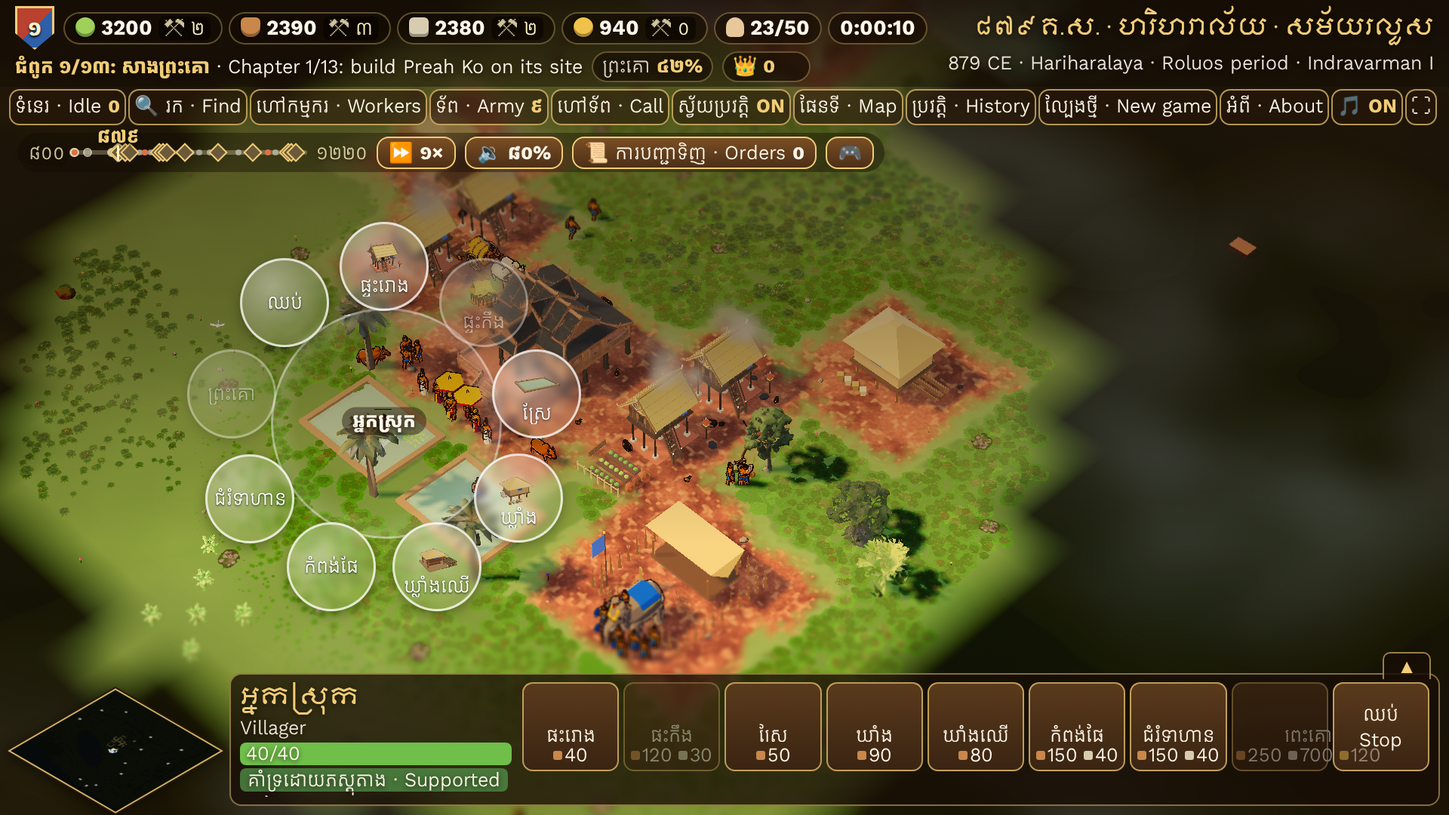
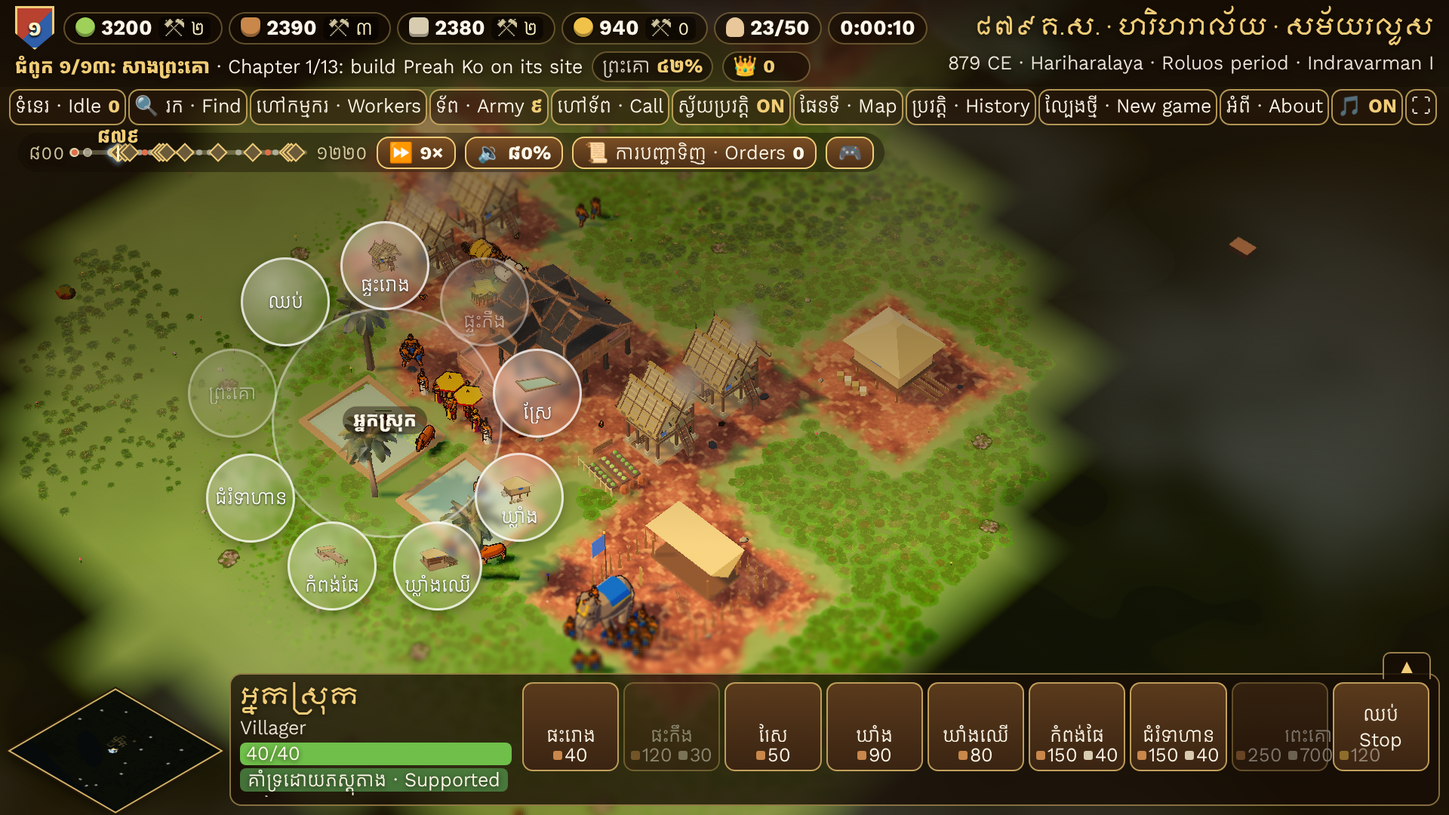
1.8.0: the 889 CE Khmer stilt house after PK's reference picture
Claude-Session: https://claude.ai/code/session_017dmXPdLMp9auDpbSrbmvn9

diff --git a/apps/game/src/kingdom/view/houses.ts b/apps/game/src/kingdom/view/houses.ts
@@ -348,48 +348,318 @@ function spiritHouse(p: THREE.BufferGeometry[], x: number, z: number, s = 1): vo
   p.push(part(place(new THREE.ConeGeometry(0.04 * s, 0.22 * s, 4), [x, 1.95 * s, z]), C.lime));
 }
 
+/** PK 1.8.0 (889 CE brief): the commoner's stilt house materials. */
+const R89 = {
+  bamboo: 0x9e8a62,
+  bambooLight: 0xc2ad80,
+  bambooDark: 0x76623f,
+  /** Weathered thatch: grey-brown, the fresh courses lighter (PK's reference). */
+  thatchOld: 0x8f7d5c,
+  thatchShade: 0x5e5038,
+  hardwood: 0x4a3020,
+  hardwoodLight: 0x6a4630,
+  stone: 0xa49474,
+  stoneDark: 0x80725a,
+  earth: 0x8a6a48,
+  clay: 0x9a5434,
+  basket: 0xb08a4e,
+  straw: 0xd8bc6a,
+  log: 0x5e4028,
+};
+
 /**
- * Pteas Rong (ផ្ទះរោង), the common house: 2 × 2 tiles (4 × 4 m). PK's reference names it
- * the oldest type of the series, going back to Funan (Nokor Phnom). A rectangular body with
- * its long side to the front, raised on three rows of round posts over stone footings (floor
- * at ~2.2 m), under one steep two-sided gable roof of red tile (overall ~5.5 m) with big
- * decorated gable boards and horn finials at both ridge ends; a steep stair on the long side
- * up to the door, small shuttered windows (a team-colour cloth hangs from one), a
- * terracotta ground slab and a spirit house at the north-east corner of the plot.
+ * A carved stone pedestal (ssom) for a stilt: a square plinth, a chamfered block with a
+ * carved band, and a cap; the post stands on top, out of the damp (not buried in the earth).
+ * Returns the height of its top.
+ */
+function pedestal(p: THREE.BufferGeometry[], x: number, z: number): number {
+  p.push(part(place(box(0.42, 0.1, 0.42), [x, 0.05, z]), R89.stoneDark));
+  p.push(part(place(cyl(0.15, 0.2, 0.24, 4), [x, 0.22, z], [0, Math.PI / 4, 0]), R89.stone));
+  p.push(part(place(box(0.27, 0.05, 0.27), [x, 0.25, z]), R89.stoneDark)); // the carved band
+  p.push(part(place(box(0.25, 0.06, 0.25), [x, 0.37, z]), R89.stone)); // cap
+  return 0.4;
+}
+
+/**
+ * A woven bamboo wall panel (thnob), `w` wide and `h` high, centred at `c` along the wall, its
+ * face at `at` along the outward axis: a split-bamboo base with a two-tone twill weave in a
+ * hardwood frame (top, middle and bottom rails). `side`: 'z' = front/back (panel along x),
+ * 'x' = the ends (panel along z).
+ */
+function wovenPanel(
+  p: THREE.BufferGeometry[],
+  side: 'z' | 'x',
+  sign: number,
+  at: number,
+  w: number,
+  y0: number,
+  h: number,
+  c = 0,
+): void {
+  const along = (u: number, y: number, d: number, sw: number, sh: number, col: number) => {
+    const g = side === 'z' ? box(sw, sh, d) : box(d, sh, sw);
+    const pos: V = side === 'z' ? [c + u, y, sign * at] : [sign * at, y, c + u];
+    p.push(part(place(g, pos), col));
+  };
+  along(0, y0 + h / 2, 0.06, w, h, R89.bamboo);
+  const cols = Math.max(2, Math.round(w / 0.34));
+  const rows = Math.max(2, Math.round(h / 0.3));
+  const cw = w / cols;
+  const ch = h / rows;
+  for (let r = 0; r < rows; r++)
+    for (let k = r % 2; k < cols; k += 2)
+      along(-w / 2 + (k + 0.5) * cw, y0 + (r + 0.5) * ch, 0.08, cw * 0.92, ch * 0.5, r % 2 ? R89.bambooLight : R89.bambooDark);
+  for (const y of [y0 + 0.04, y0 + h * 0.45, y0 + h - 0.04]) along(0, y, 0.11, w + 0.06, 0.08, R89.hardwood);
+}
+
+/**
+ * A steep, deep thatch roof with its ridge along x, centred on the origin: two thick shaggy
+ * slabs with layered courses, bamboo battens laid down the slope over the thatch, a ragged
+ * fringe at the low eaves, a bound ridge roll, woven bamboo gable triangles and, at both ridge
+ * ends, carved horn finials curling up (with smaller hooks at the eave corners), as in PK's
+ * reference.
+ */
+function thatchRoof(
+  p: THREE.BufferGeometry[],
+  g: { len: number; half: number; ridge: number; eave: number; base: number; wallHalf: number },
+): void {
+  const { len, half, ridge: R, eave: E, base } = g;
+  const L = len / 2;
+  const rise = R - E;
+  const slope = Math.hypot(half, rise);
+  const t = 0.22;
+  const ny = half / slope;
+  for (const s of [-1, 1]) {
+    const nz = (s * rise) / slope;
+    const top: V[] = [
+      [-L, R + 0.04, -s * 0.05],
+      [L, R + 0.04, -s * 0.05],
+      [L, E, s * half],
+      [-L, E, s * half],
+    ];
+    const bottom = top.map(([x, y, z]) => [x, y - ny * t, z - nz * t] as V);
+    p.push(part(solid([...top, ...bottom], HEXA), R89.thatchOld));
+    // Layered courses, each lapping over the one below, its lower edge in shadow.
+    for (const f of [0.16, 0.32, 0.48, 0.64, 0.8, 0.94]) {
+      const y = R - f * rise + ny * 0.035;
+      const z = s * f * half + nz * 0.035;
+      p.push(part(beam([-L + 0.02, y, z], [L - 0.02, y, z], 0.12, 0.05), f < 0.5 ? C.thatch : C.thatchCourse));
+      p.push(part(beam([-L + 0.02, y - ny * 0.02, z - s * 0.07], [L - 0.02, y - ny * 0.02, z - s * 0.07], 0.05, 0.03), R89.thatchShade));
+    }
+    // Bamboo battens laid down the slope over the thatch, holding it against the wind.
+    const n = Math.max(3, Math.round(len / 0.75));
+    for (let i = 0; i < n; i++) {
+      const x = -L + 0.3 + (i * (len - 0.6)) / (n - 1);
+      const a0: V = [x, R - 0.04 * rise + ny * 0.07, s * 0.04 * half + nz * 0.07];
+      const a1: V = [x, R - 0.97 * rise + ny * 0.07, s * 0.97 * half + nz * 0.07];
+      p.push(part(beam(a0, a1, 0.06, 0.05), R89.log));
+    }
+    // One long batten across, tying them.
+    const yc = R - 0.55 * rise + ny * 0.09;
+    p.push(part(beam([-L + 0.1, yc, s * 0.55 * half + nz * 0.09], [L - 0.1, yc, s * 0.55 * half + nz * 0.09], 0.05, 0.05), R89.log));
+    // The ragged eave fringe.
+    for (let i = 0; i < 9; i++) {
+      const x = -L + (i + 0.5) * (len / 9);
+      const drop = 0.12 + ((i * 37) % 5) * 0.03;
+      p.push(part(place(box(len / 9 + 0.02, drop, 0.14), [x, E - drop / 2 + 0.02, s * (half - 0.02)]), i % 2 ? R89.thatchShade : C.thatchCourse));
+    }
+  }
+  p.push(part(place(cyl(0.16, 0.16, len + 0.1, 6), [0, R + 0.1, 0], [0, 0, Math.PI / 2]), C.thatchRidge));
+  for (const x of [-L * 0.66, -L * 0.22, L * 0.22, L * 0.66])
+    p.push(part(place(cyl(0.18, 0.18, 0.06, 6), [x, R + 0.1, 0], [0, 0, Math.PI / 2]), R89.hardwood));
+  for (const sx of [-1, 1]) {
+    const x = sx * (L - 0.3);
+    const bh = R - 0.1 - base;
+    const bw = Math.min(g.wallHalf + 0.1, (half * (R - base)) / rise - 0.08);
+    const tri: V[] = [
+      [x - 0.03, base, -bw],
+      [x - 0.03, base, bw],
+      [x - 0.03, base + bh, 0],
+      [x + 0.03, base, -bw],
+      [x + 0.03, base, bw],
+      [x + 0.03, base + bh, 0],
+    ];
+    p.push(part(solid(tri, [[0, 1, 2], [3, 4, 5], [0, 1, 4, 3], [1, 2, 5, 4], [2, 0, 3, 5]]), R89.bamboo));
+    for (const f of [0.3, 0.62]) {
+      const hw = bw * (1 - f) - 0.05;
+      p.push(part(place(box(0.08, 0.1, hw * 2), [x + sx * 0.01, base + f * bh, 0]), R89.bambooLight));
+    }
+    // Barge boards along both verges, dark hardwood.
+    const ex = sx * (L + 0.02);
+    for (const s of [-1, 1]) p.push(part(beam([ex, R + 0.12, 0], [ex, E + 0.05, s * (half + 0.03)], 0.1, 0.08), R89.hardwood));
+    // Horn finial at the apex: rising, then curling outward (the reference's naga horn).
+    const horn = [
+      new THREE.Vector3(ex, R + 0.1, 0),
+      new THREE.Vector3(ex + sx * 0.08, R + 0.32, 0),
+      new THREE.Vector3(ex + sx * 0.05, R + 0.55, 0),
+      new THREE.Vector3(ex + sx * 0.2, R + 0.68, 0),
+    ];
+    p.push(part(taperedTube(horn, 0.08, 0.02, 6, 6), R89.hardwood));
+    // Small hooks curling up at the eave corners.
+    for (const s of [-1, 1]) {
+      const ez = s * (half + 0.03);
+      const hook = [
+        new THREE.Vector3(ex, E + 0.05, ez),
+        new THREE.Vector3(ex + sx * 0.06, E + 0.18, ez + s * 0.06),
+        new THREE.Vector3(ex + sx * 0.02, E + 0.36, ez + s * 0.08),
+      ];
+      p.push(part(taperedTube(hook, 0.05, 0.015, 4, 5), R89.hardwood));
+    }
+  }
+}
+
+/** A thatch roof as above, turned so its ridge runs along z (gable ends to the front and back). */
+function thatchGableZ(
+  p: THREE.BufferGeometry[],
+  x: number,
+  z: number,
+  g: { len: number; half: number; ridge: number; eave: number; base: number; wallHalf: number },
+): void {
+  const q: THREE.BufferGeometry[] = [];
+  thatchRoof(q, g);
+  for (const m of q) p.push(m.rotateY(Math.PI / 2).translate(x, 0, z));
+}
+
+/** A window with a woven awning shutter propped open on a stick (PK's reference). */
+function awningWindow(p: THREE.BufferGeometry[], side: 'z' | 'x', sign: number, at: number, u: number, y: number): void {
+  const q: THREE.BufferGeometry[] = [];
+  q.push(part(place(box(0.55, 0.42, 0.05), [0, 0, 0.02]), C.opening));
+  q.push(part(place(box(0.65, 0.06, 0.08), [0, -0.24, 0.05]), R89.hardwood)); // sill
+  q.push(part(place(box(0.64, 0.05, 0.46), [0, 0.32, 0.2], [0.55, 0, 0]), R89.bamboo)); // awning
+  q.push(part(beam([0.28, -0.22, 0.06], [0.28, 0.2, 0.4], 0.025, 0.025), R89.log)); // prop stick
+  for (const g of q) {
+    g.translate(0, y, 0);
+    if (side === 'z') {
+      if (sign < 0) g.rotateY(Math.PI);
+      g.translate(u, 0, sign * at);
+    } else {
+      g.rotateY((sign * Math.PI) / 2);
+      g.translate(sign * at, 0, u);
+    }
+    p.push(g);
+  }
+}
+
+/**
+ * Pteas Rong (ផ្ទះរោង), the commoner's house: 2 × 2 tiles (4 × 4 m), PK 1.8.0 after his 889 CE
+ * brief and reference picture (late Chenla, early Angkor): two steep, deep thatch gables side by
+ * side with a valley between, their gable ends to the front, bamboo battens over the thatch and
+ * horn finials curling up at the apexes; woven bamboo walls in a hardwood frame with propped
+ * awning windows; a veranda with a railing before the door under the right gable, reached by a
+ * wooden stair with handrails; square hardwood stilts on carved stone pedestals (not buried in
+ * the earth, out of the damp); under the house the farm's daily life: stacked firewood, baskets,
+ * an ox cart, clay water jars, straw, a fish trap. A team-colour cloth hangs at a window. No
+ * wooden house of the period survives: a reconstruction.
  */
 export function rongHouseGeometry(): THREE.BufferGeometry {
   const p: THREE.BufferGeometry[] = [];
-  const H = 2.2;
-  const floorTop = H + 0.08;
-  const wallTop = 3.62;
-  p.push(part(place(box(3.8, 0.06, 3.3), [0, 0.03, 0]), C.slab));
-  posts(p, [-1.45, 0, 1.45], [-1.05, 0, 1.05], H - 0.08, 0.1);
-  p.push(part(place(box(3.5, 0.16, 2.7), [0, H, 0]), C.floor));
-  plankWalls(p, 3.2, 2.4, floorTop, wallTop - floorTop);
-  // Door on the long side, with a lighter frame.
-  p.push(part(place(box(0.74, 1.3, 0.05), [-0.7, floorTop + 0.66, 1.22]), C.batten));
-  p.push(part(place(box(0.6, 1.2, 0.06), [-0.7, floorTop + 0.6, 1.23]), C.opening));
-  const wy = floorTop + 0.78;
-  windowAt(p, 'z+', 0.35, wy, 1.2);
-  windowAt(p, 'z+', 1.05, wy, 1.2, true);
-  windowAt(p, 'z-', -0.75, wy, 1.2);
-  windowAt(p, 'z-', 0.75, wy, 1.2);
-  windowAt(p, 'x+', 0, wy, 1.6);
-  windowAt(p, 'x-', 0, wy, 1.6);
-  gableRoof(p, {
-    len: 3.9,
-    half: 1.7,
-    ridge: 5.0,
-    eave: 3.25,
-    base: wallTop - 0.04,
-    // Commoners were not allowed tiles: palm-leaf thatch (Zhou Daguan; PK's research, D78).
-    tile: C.thatch,
-    course: C.thatchCourse,
-    ridgeColor: C.thatchRidge,
-    horn: 0.8,
-  });
-  stair(p, -0.7, 0.66, floorTop, 1.36, 2.35, 6);
-  spiritHouse(p, 2.15, 2.15);
+  const H = 1.85; // floor
+  const floorTop = H + 0.1;
+  const wallTop = 3.55;
+  const wh = wallTop - floorTop;
+  const XL = -1.6; // left wall
+  const XR = 1.6; // right wall
+  const XM = 0.1; // between the two rooms (under the valley)
+  const ZB = -1.35; // back wall
+  const ZF = 1.45; // front of the left room and of the veranda
+  const ZV = 0.45; // the right room's front wall (the back of the veranda)
+  // Packed earth and straw under the house.
+  p.push(part(place(box(3.8, 0.04, 3.4), [0, 0.02, 0.05]), R89.earth));
+  p.push(part(place(box(1.1, 0.06, 0.8), [0.8, 0.05, 0.9]), R89.straw));
+  // Square hardwood stilts on carved stone pedestals; the veranda's front posts run on up to
+  // the eave.
+  const stilts: Array<[number, number, number]> = [];
+  for (const x of [XL, XM, XR]) for (const z of [ZB, -0.45, ZV]) stilts.push([x, z, H]);
+  stilts.push([XL, ZF, H], [XM, ZF, 3.25], [XR, ZF, 3.25]);
+  for (const [x, z, top] of stilts) {
+    const base = pedestal(p, x, z);
+    p.push(part(place(box(0.16, top - base, 0.16), [x, base + (top - base) / 2, z]), R89.hardwood));
+  }
+  // Bearers and joists.
+  for (const z of [ZB, -0.45, ZV, ZF]) p.push(part(place(box(3.4, 0.14, 0.14), [0, H - 0.12, z]), R89.hardwood));
+  for (const x of [XL, XM, XR]) p.push(part(place(box(0.12, 0.1, ZF - ZB + 0.2), [x, H - 0.02, (ZF + ZB) / 2]), R89.hardwoodLight));
+  // Floors: the rooms and the veranda (split bamboo).
+  p.push(part(place(box(XR - XL + 0.2, 0.08, ZF - ZB + 0.2), [0, H + 0.06, (ZF + ZB) / 2]), R89.bambooDark));
+  // Corner posts of the rooms.
+  for (const [x, z] of [
+    [XL, ZB], [XR, ZB], [XL, ZF], [XM, ZF], [XM, ZV], [XR, ZV], [XM, ZB],
+  ] as const)
+    p.push(part(place(box(0.14, wh + 0.1, 0.14), [x, floorTop + wh / 2, z]), R89.hardwood));
+  // Woven walls. Left room: front, left side, its right side along the veranda.
+  wovenPanel(p, 'z', 1, ZF, XM - XL, floorTop, wh, (XL + XM) / 2);
+  wovenPanel(p, 'x', -1, -XL, ZF - ZB, floorTop, wh, (ZF + ZB) / 2);
+  wovenPanel(p, 'x', 1, XM, ZF - ZV, floorTop, wh, (ZF + ZV) / 2);
+  // Back wall and the right room's side.
+  wovenPanel(p, 'z', -1, -ZB, XR - XL, floorTop, wh);
+  wovenPanel(p, 'x', 1, XR, ZV - ZB, floorTop, wh, (ZV + ZB) / 2);
+  // The right room's front, onto the veranda, with the door.
+  const doorX = 0.75;
+  const doorW = 0.7;
+  const lw = doorX - doorW / 2 - XM;
+  const rw = XR - (doorX + doorW / 2);
+  wovenPanel(p, 'z', 1, ZV, lw, floorTop, wh, XM + lw / 2);
+  wovenPanel(p, 'z', 1, ZV, rw, floorTop, wh, XR - rw / 2);
+  p.push(part(place(box(doorW, 1.3, 0.05), [doorX, floorTop + 0.65, ZV + 0.01]), C.opening));
+  p.push(part(place(box(doorW + 0.14, 0.08, 0.1), [doorX, floorTop + 1.34, ZV + 0.03]), R89.hardwood));
+  // Awning windows, the team cloth under one.
+  awningWindow(p, 'z', 1, ZF + 0.02, (XL + XM) / 2 - 0.35, floorTop + 0.9);
+  awningWindow(p, 'z', 1, ZF + 0.02, (XL + XM) / 2 + 0.45, floorTop + 0.9);
+  awningWindow(p, 'x', -1, -XL + 0.02, -0.6, floorTop + 0.9);
+  p.push(part(place(box(0.46, 0.34, 0.03), [(XL + XM) / 2 - 0.35, floorTop + 0.42, ZF + 0.07]), 0xffffff, CLOTH));
+  // Veranda railing: top rail and balusters, open at the stair (on the left).
+  const railY = floorTop + 0.6;
+  p.push(part(beam([XM + 0.62, railY, ZF], [XR, railY, ZF], 0.07, 0.07), R89.hardwood));
+  p.push(part(beam([XR, railY, ZF], [XR, railY, ZV], 0.07, 0.07), R89.hardwood));
+  for (let i = 0; i <= 6; i++) p.push(part(place(box(0.04, 0.6, 0.04), [XM + 0.62 + (i * (XR - XM - 0.62)) / 6, floorTop + 0.3, ZF]), R89.hardwoodLight));
+  for (let i = 1; i < 4; i++) p.push(part(place(box(0.04, 0.6, 0.04), [XR, floorTop + 0.3, ZV + (i * (ZF - ZV)) / 4]), R89.hardwoodLight));
+  // A rolled bamboo blind under the veranda eave.
+  p.push(part(place(cyl(0.07, 0.07, XR - XM - 0.2, 6), [(XM + XR) / 2, 3.1, ZF + 0.05], [0, 0, Math.PI / 2]), R89.bambooLight));
+  // Two thatch gables side by side, gable ends front and back, a valley between.
+  const roof = { ridge: 5.1, eave: 3.2, base: wallTop - 0.04, len: ZF - ZB + 0.95 };
+  const zc = (ZF + ZB) / 2 + 0.05;
+  thatchGableZ(p, (XL + XM) / 2 - 0.05, zc, { ...roof, half: 1.32, wallHalf: (XM - XL) / 2 });
+  thatchGableZ(p, (XM + XR) / 2 + 0.05, zc, { ...roof, half: 1.32, wallHalf: (XR - XM) / 2 });
+  // Wooden stair with handrails, from the ground in front up to the veranda's open side.
+  const sx = XM + 0.32;
+  const sz0 = ZF;
+  const sz1 = ZF + 1.05;
+  for (const s of [-1, 1]) {
+    const x = sx + s * 0.28;
+    p.push(part(beam([x, 0.05, sz1], [x, floorTop, sz0], 0.06, 0.16), R89.hardwoodLight));
+    p.push(part(beam([x, 0.85, sz1], [x, floorTop + 0.72, sz0], 0.05, 0.05), R89.hardwood));
+    p.push(part(place(box(0.07, 0.9, 0.07), [x, 0.45, sz1]), R89.hardwood));
+  }
+  for (let k = 1; k <= 7; k++) {
+    const f = k / 8;
+    p.push(part(place(box(0.56, 0.05, 0.2), [sx, f * floorTop, sz1 + (sz0 - sz1) * f]), R89.hardwoodLight));
+  }
+  // Under the house: stacked firewood, baskets, an ox cart, clay jars, a fish trap.
+  for (let r = 0; r < 3; r++)
+    for (let i = 0; i < 4 - r; i++)
+      p.push(part(place(cyl(0.06, 0.06, 1.1, 5), [XL + 0.35, 0.1 + r * 0.11, -0.9 + i * 0.13 + r * 0.06], [0, 0, Math.PI / 2]), R89.log));
+  p.push(part(place(cyl(0.2, 0.15, 0.32, 7), [-0.75, 0.2, 0.05]), R89.basket));
+  p.push(part(place(cyl(0.17, 0.13, 0.28, 7), [-0.4, 0.18, 0.3]), R89.basket));
+  // Ox cart: two spoked wheels (rims), axle, bed and the long shafts resting on the ground.
+  const cx = 1.0;
+  const cz = -0.75;
+  for (const s of [-1, 1]) {
+    p.push(part(place(new THREE.TorusGeometry(0.42, 0.04, 4, lpSeg(14, 8)), [cx + s * 0.45, 0.46, cz], [0, Math.PI / 2, 0]), R89.hardwoodLight));
+    for (const a of [0, Math.PI / 3, (2 * Math.PI) / 3])
+      p.push(part(place(box(0.03, 0.82, 0.03), [cx + s * 0.45, 0.46, cz], [a, 0, 0]), R89.hardwood));
+  }
+  p.push(part(place(box(0.95, 0.05, 0.05), [cx, 0.46, cz]), R89.hardwood));
+  p.push(part(place(box(0.75, 0.06, 0.9), [cx, 0.56, cz + 0.05]), R89.hardwoodLight));
+  for (const s of [-1, 1]) p.push(part(beam([cx + s * 0.18, 0.56, cz + 0.45], [cx + s * 0.1, 0.06, cz + 1.4], 0.05, 0.05), R89.hardwood));
+  for (const [x, z, r] of [
+    [1.25, 0.95, 0.24],
+    [1.35, 0.4, 0.2],
+  ] as const) {
+    p.push(part(place(new THREE.SphereGeometry(r, lpSeg(8, 5), lpSeg(6, 4)), [x, r * 1.15, z], [0, 0, 0], [1, 1.15, 1]), R89.clay));
+    p.push(part(place(cyl(r * 0.42, r * 0.5, 0.08, 8), [x, r * 2.3 + 0.02, z]), R89.clay));
+  }
+  // A fish trap and a sieve hanging from the joists.
+  p.push(part(place(cyl(0.1, 0.18, 0.45, 6), [0.35, 1.45, -0.1]), R89.bambooLight));
+  p.push(part(place(cyl(0.2, 0.2, 0.04, 8), [-0.2, 1.6, -0.6], [Math.PI / 2, 0, 0]), R89.bamboo));
   return mergeGeometries(p)!;
 }
 

diff --git a/docs/HISTORICAL_UNCERTAINTIES.md b/docs/HISTORICAL_UNCERTAINTIES.md
@@ -29,7 +29,7 @@
 | Bokator fighting style                                  | UNCERTAIN                                     | Kun Lbokator is taught as an ancient art and relief warriors fight hand to hand, but its Angkorian form is not recorded; the moves are shown as a stylised stand-in.                                                                                                                                                                                                                                             |
 | Swordsman (dao and shield)                              | SUPPORTED                                     | Short swords and shields are shown on the Bayon and Angkor Wat reliefs; a separate troop type is a game rule.                                                                                                                                                                                                                                                                                                    |
 | Weather every 30 minutes                                | GAMEPLAY_ABSTRACTION                          | Real weather follows the monsoon seasons; the cycle is for play.                                                                                                                                                                                                                                                                                                                                                 |
-| Pteas Rong and Pteas Keung                              | SUPPORTED / UNCERTAIN                         | Types known from the later tradition (PK's references); the Rong's Funan origin is what the reference says; no Angkorian wooden house survives.                                                                                                                                                                                                                                                                  |
+| Pteas Rong and Pteas Keung                              | SUPPORTED / UNCERTAIN                         | Types known from the later tradition (PK's references); the Rong's Funan origin is what the reference says; no Angkorian wooden house survives. Since 1.8.0 the commoner's house follows PK's 889 CE brief (thatch, woven bamboo, stilts on stone pedestals) and his reference picture (twin gables, horn finials): still a reconstruction.                                                                                                                                                                                                                                                                  |
 | Soldiers of the 9th–11th centuries                      | UNCERTAIN                                     | Almost no battle reliefs before Angkor Wat; their dress is extrapolated back from the 12th century.                                                                                                                                                                                                                                                                                                              |
 | Animal-crest helmets and monster shields                | SUPPORTED                                     | Shown on the Angkor Wat reliefs; used only from the Angkor Wat era.                                                                                                                                                                                                                                                                                                                                              |
 | Horsemen                                                | SUPPORTED                                     | Ridden bareback without stirrups on the Angkor Wat and Bayon reliefs; a small arm of the army.                                                                                                                                                                                                                                                                                                                   |

diff --git a/docs/DECISIONS.md b/docs/DECISIONS.md
@@ -141,4 +141,5 @@ PK chose rounds 1–2 directly. For rounds 3–8 he said "let's start build", so
 | D139 | PK 1.8.0: a building type can be drawn from PK's own model (`props.json` `buildings`, by building id; front toward +z). The royal hall (`townCentre`) uses PK's Blender export (9 682 triangles; textures shrunk to 1024 px WebP, normal map dropped: 11.2 MB → 0.74 MB), fitted to the built-in hall's widest side, loaded with the other props (off on lite and the phone, which keep the built-in hall). The model keeps its colours (no team banners); damage still darkens it | PK's model, at the cost of one instanced draw like the built-in hall |
 | D140 | PK 1.8.0 "day 30 minutes, night 30 minutes, the sun, sunrise and sunset by the seasons": `night.daySec` 3600 with dusk/dawn set so the sun is up half the hour; `night.sunPath` (sim/sunPath.ts) places the sun on Angkor's sky (latitude 13.4°, declination by month; one game day a month, the game starting in November), moves dusk and dawn by ±0.029 of a day with the season, and gives sunrise/sunset colours that blend from the dry season's to the wet season's. The light for shading keeps the sun's bearing but stays between 10° and 62° high (no flat noon, no black sunrise); the sky dome draws the disc where the sun really is; the Prek water gets the sun's colour and a broad path of light toward it at sunrise and sunset; the sky, haze and water sky warm with it. Rain and storms dull the glow. The moon cycle (8 game days) is now 8 hours of play | Real sky geometry for the look; the light kept readable for an RTS |
 | D141 | PK 1.8.0 "replace all trees with 3D, keep the details; houses of three or more always have a coconut and a banana; along the way to the storehouse sometimes a palm or a coconut": `props.json` `trees` (11 kinds from PK's 12 uploads; the two "Wood Organic" files were the same model; the "Resilient Oasis" grass is already the elephant grass) and `treePlacement`. Each tree has two forms: the model shrunk by scripts/models/trees.mjs (broadleaf trees 3 000–7 600 triangles, palms and bananas about 2 000; 1024 px WebP) for the trees nearest the view within `nearTris` (RTS 30 000, hero 160 000 triangles), and crossed picture cards of the same model for the rest (scripts/models/grassCards.mjs, 6 sides + 2 from above, 8 triangles a tree): PK's simplified models looked like crumpled paper at 400 triangles, the cards keep their look. Trees are fitted to a height and a widest crown (a forest stands a tree a tile). Yard trees by house groups (union of houses within 16 m, ≥ 3 houses); wayside trees on open tiles within two tiles of worn earth within 50 m of a finished storehouse (8 % of such tiles, fixed per tile). Built-in trees stand in until the models load and on lite and the phone. KG-02 waits for the models: 546 191–560 514 triangles | Detail near, the same look far, inside the budget |
+| D142 | PK 1.8.0: the house (Pteas Rong) rebuilt after PK's 889 CE brief and reference picture (late Chenla / early Angkor): two thatch gables side by side (gable ends front, a valley between; weathered thatch, layered courses, bamboo battens over it, fringed eaves, horn finials at the apexes and eave corners as in the picture), woven bamboo walls with awning windows, a railed veranda and a stair with handrails, square hardwood stilts on carved stone pedestals (ssom), an undercroft with firewood, baskets, an ox cart, jars, straw and a fish trap; the later tile-and-plank details (lime ridges, sunburst gable boards, spirit house) were dropped. Built in code like the other buildings: 5 684 triangles, the same plot, height and team-colour cloth; no wooden house of the period survives, so the form is a reconstruction (HISTORICALLY_UNCERTAIN) | PK's brief; the reliefs show stilts, ladders and crossed gable ends |
 

diff --git a/CHANGELOG.md b/CHANGELOG.md
@@ -25,6 +25,7 @@ Every update, newest first. Each change has a code (`<version>-<number>`) so it 
 | 1.8.0-17 | **Day and night, the sun and the seasons** (Anachak Khmer): a day is now an hour, about 30 minutes of daylight and 30 of night. The sun rises in the east, crosses over the south and sets in the west, and the shadows move with it. At sunrise and sunset the sky glows, the sun is a bright disc on the horizon and the water carries a path of its light, best seen in the 3D hero mode. The seasons change through the year (one game day a month): in the dry season (Nov–Apr) the sunrises and sunsets are gold and deep orange, in the wet season (May–Oct) rose and crimson; the days are a little longer in the wet season and the sun sets north of west in June, south of west in December. Rain and storms dull the sunset (D140). |
 | 1.8.0-18 | **PK's own trees everywhere**: every tree of the forests is now one of PK's 3D models: six broadleaf forest trees (slim, round-crowned, open-crowned, old gnarled giants, tall, buttress-rooted), the forest palm and the fan palm, mixed through the forest. Up close they are PK's models in full detail (up to 6 000 triangles a tree); further off they are pictures of the same models seen from 6 sides and from above, so a whole forest keeps the look and the frame rate. Bamboo and the old built-in trees are gone from the forest. They sway in the wind (D141). |
 | 1.8.0-19 | **Coconut and banana by the houses**: every house of a hamlet of three or more houses has a coconut palm (ដើមដូង) behind it and a banana plant (ដើមចេក) beside it; **along the working paths to the storehouse** (ឃ្លាំង) a palm or a coconut stands now and then by the worn earth (D141). |
+| 1.8.0-20 | **The house (ផ្ទះ) as in 889 CE** (PK's brief and reference picture): two steep thatch gables side by side, their gable ends to the front, weathered grey-brown thatch with layered courses, bamboo battens laid over it, a ragged fringe at the eaves and carved horn finials curling up at the apexes and eave corners; woven bamboo walls in a hardwood frame with propped awning windows; a veranda with a railing before the door, reached by a wooden stair with handrails; square hardwood stilts standing on carved stone pedestals, not buried in the earth; under the house the farm's daily life: stacked firewood, baskets, an ox cart, clay water jars, straw, a fish trap (D142). |
 
 ## 1.7.0 — 2026-10-06
 

diff --git a/docs/VISUAL_BIBLE.md b/docs/VISUAL_BIBLE.md
@@ -27,6 +27,7 @@ The land should look the way people have used it:
 - **Look.** Dense tussocks, wider than tall. Elephant grass deep green, sunlit at the tips; cogon paler and yellower in its own patches; a few dry straw-coloured clumps; about a third flower in white plumes.
 - **PK's models (1.8.0).** The tall stands are PK's Meshy grass "Resilient Oasis"; every open green meadow is covered by his "mix of cogon" as short grass 0.26–0.34 m high (above a person's foot, below the knee), tinted to the ground's green so the gaps read as more grass. Both are cards baked from the models (3 sides and from above). Worn paths, yards, fields, the water's edge and the forest floor stay without it.
 - **Sun and seasons (1.8.0, Anachak Khmer).** A day lasts an hour, half light, half dark. The sun crosses from east to west over the south; at sunrise and sunset the sky and haze glow, the sun is a disc on the horizon and the water shows a path of its light. Dry season (November–April): gold and deep orange; wet season (May–October): rose and crimson, longer days. Rain and storms dull the glow.
+- **The house (1.8.0, 889 CE, PK's reference picture).** Two steep gables of weathered thatch with bamboo battens and horn finials, woven bamboo walls with awning windows, a railed veranda and a wooden stair, square hardwood stilts on carved stone pedestals, and the farm's life in the open space below: firewood, baskets, an ox cart, jars, straw.
 - **Trees (1.8.0).** All trees are PK's own models: six kinds of broadleaf forest tree, the forest palm and the fan palm in the forests; a coconut palm and a banana plant by every house of a hamlet (three houses or more); now and then a palm or a coconut beside the worn paths to a storehouse. Close up the full model, further off a picture of it.
 - **The royal hall (1.8.0).** PK's own model: a carved wooden hall on stilts, tiered dark roofs, a brick terrace with steps in front.
 - **The lawn (1.8.0).** Under it all, the open green ground is a 10 cm lawn (PK's "make grass for floor"): it reaches above a person's foot, fills between the tussocks and thins only where paths wear the ground to earth. Here and there a cluster of stones sits in the grass (PK's "Grass and Stones").

diff --git a/docs/CHECKS.md b/docs/CHECKS.md
@@ -567,3 +567,9 @@ Note: the test machine has no GPU and renders headless at about 2 FPS, so timing
 | Palms and coconuts now and then beside (never on) worn paths near a storehouse | ✅ | `view/trees18.test.ts`, `docs/screens/k18-trees-wayside.jpg` |
 
 **Not verified here:** the frame rate of a dense forest on the stream laptop (software GL here), the first load time of the tree models over the web (4.4 MB).
+
+### 1.8.0, seventh part: the 889 CE house (2026-10-10)
+
+| Check | Result | Evidence |
+| --- | --- | --- |
+| (KG-02 with the new house: 557 716 triangles ✅) The house fits its 4 × 4 m plot, 5.79 m high, 5 684 triangles, thatch colour, team cloth; above the old stilt house, below the officials' house | ✅ | `view/houses.test.ts`, `view/court.test.ts`, `docs/screens/k18-house-889.jpg`, `k18-house-889-model.jpg` |
